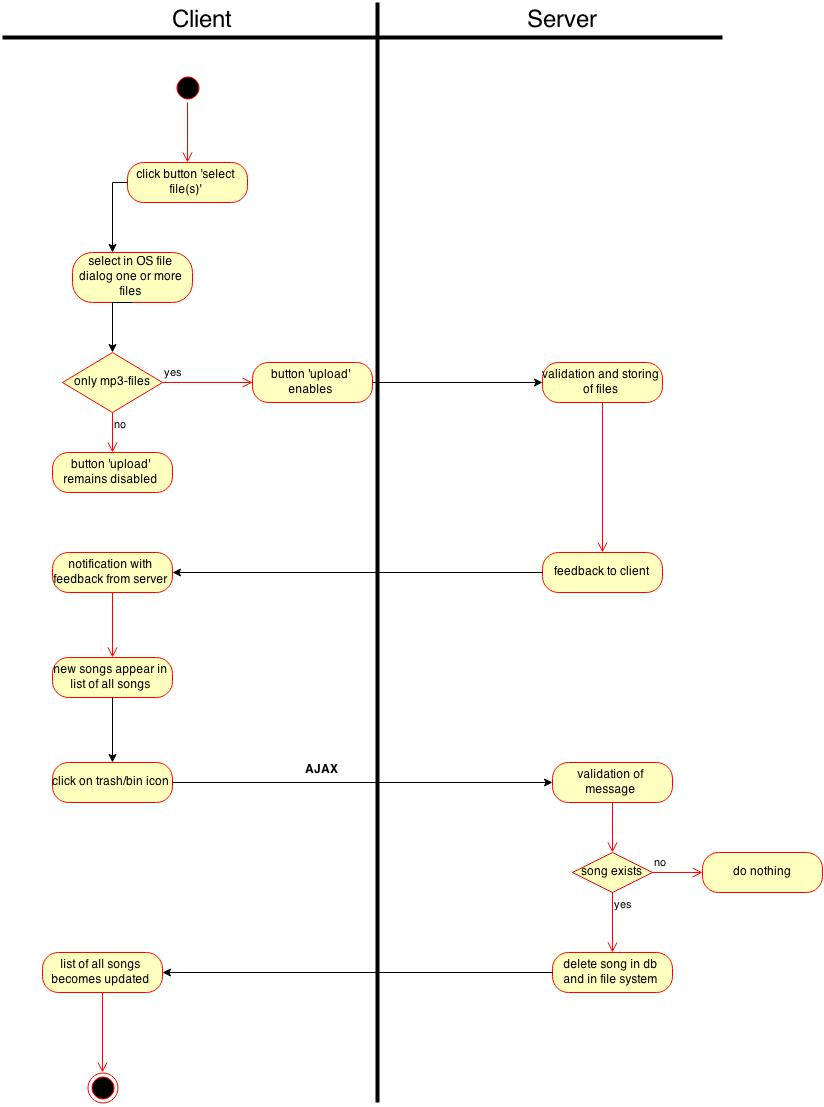
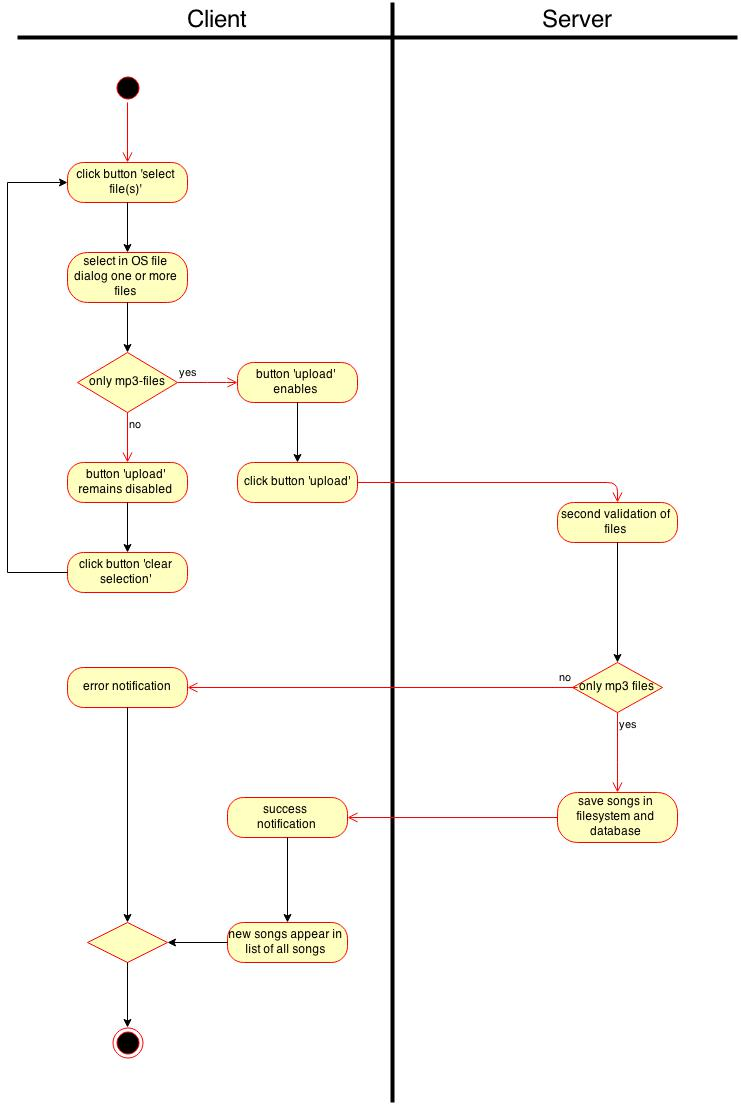
updated use case Song

diff --git a/UseCase/Song/UseCase-Song.html b/UseCase/Song/UseCase-Song.html
@@ -2,7 +2,7 @@
 <html>
 <head>
 	<meta charset="utf-8">
-	<title>Use Case Specification: Create Event</title>
+	<title>Use Case Specification: Song</title>
 	<link href="cloud-style.css" rel="stylesheet">
 </head>
 
@@ -24,9 +24,15 @@
                 <th>Author</th>
             </tr>
             <tr>
-                <td>09.04.2015</td>
+				<td>09.04.2015</td>
 				<td>Version 1.0</td>
 				<td>Created Use Case</td>
+				<td>Phillipp Perez</td>
+            </tr>
+			<tr>
+				<td>14.04.2015</td>
+				<td>Version 1.1</td>
+				<td>Correction of activity diagram</td>
 				<td>Phillipp Perez</td>
             </tr>
         </table>
